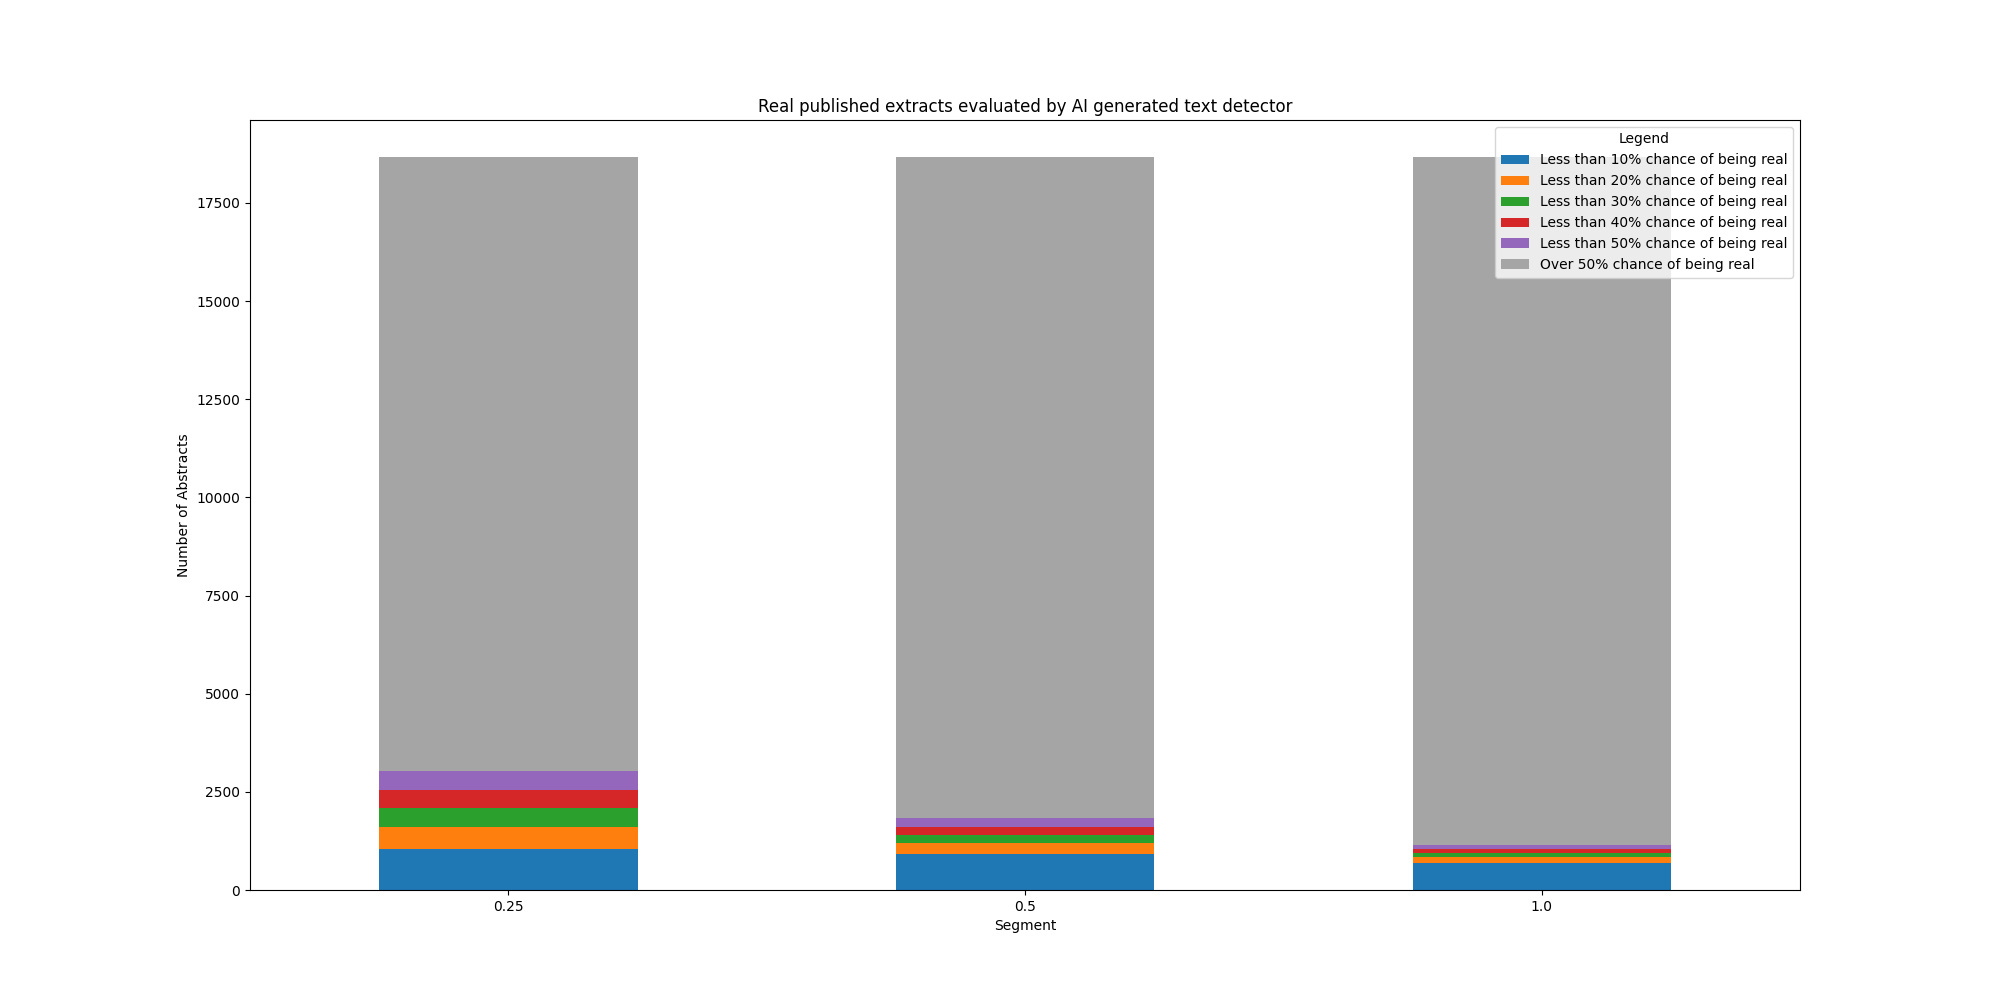
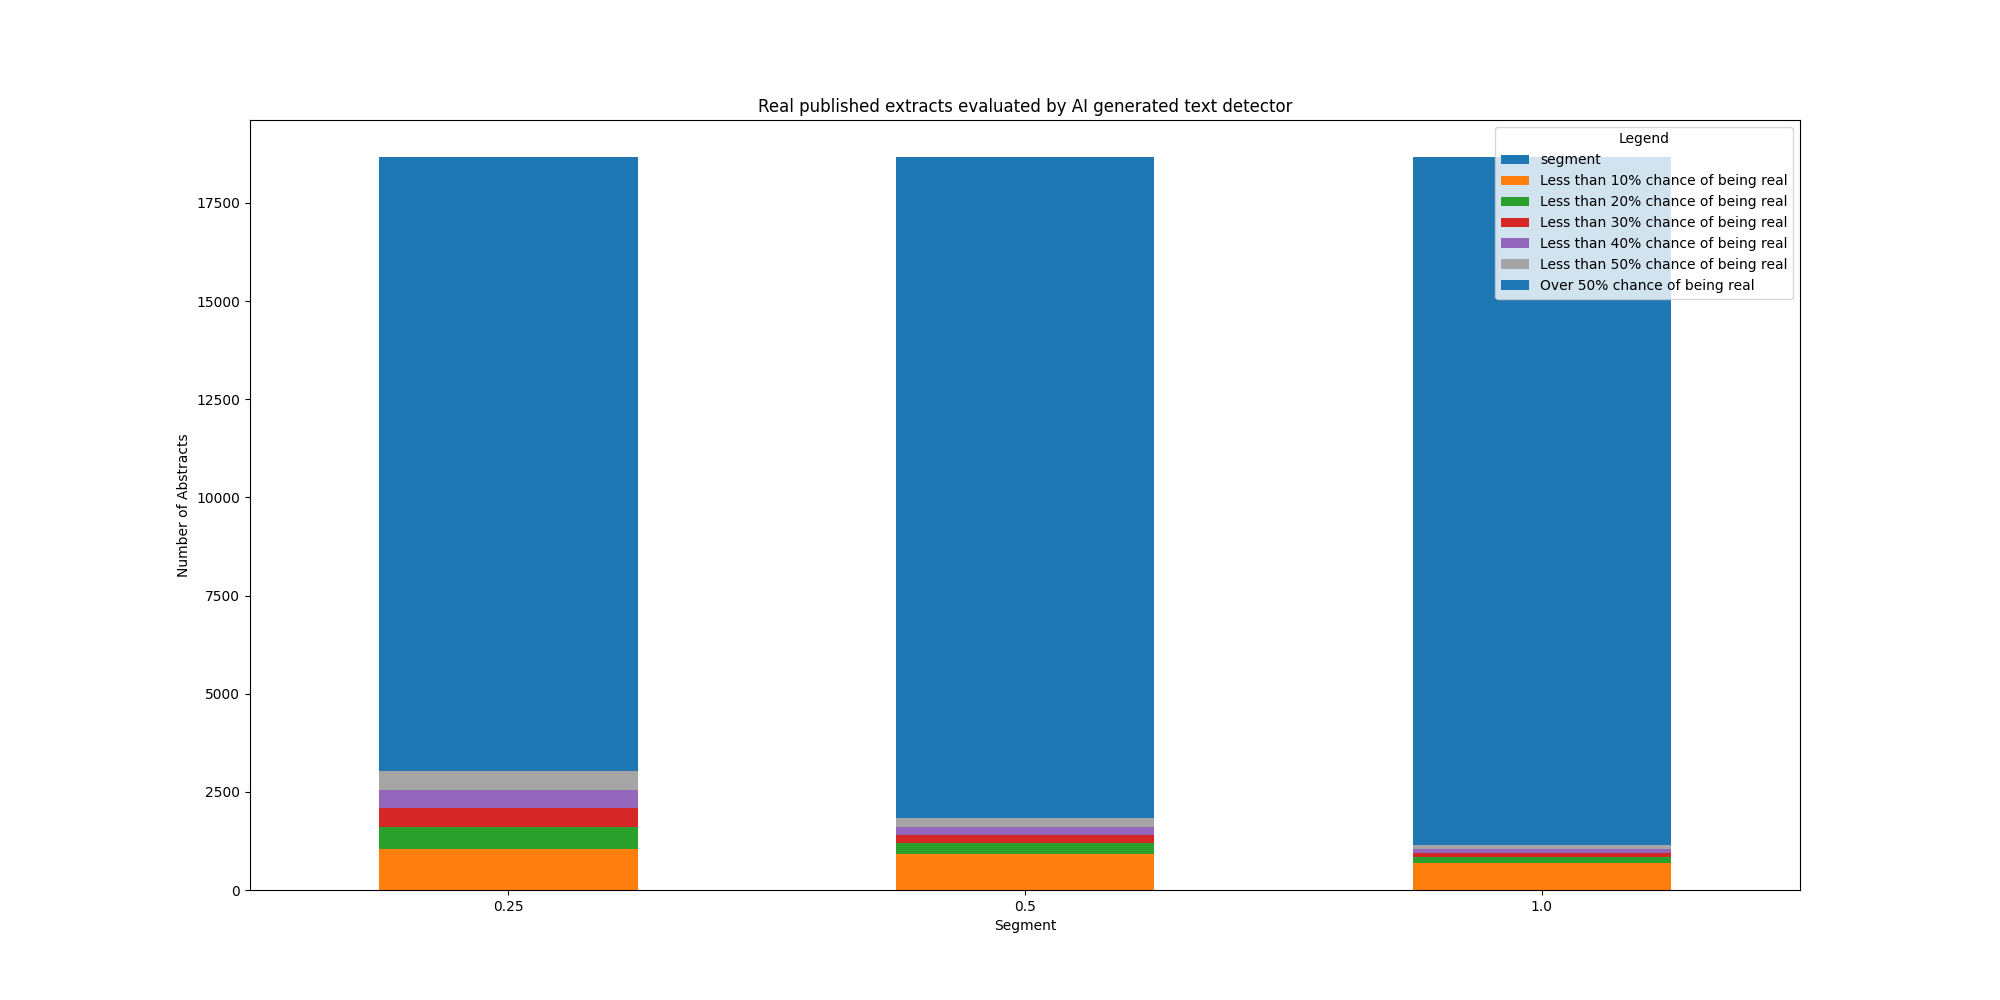
adding 3d to viz adding totals to statistics

Changed region(s): [[0.682, 0.155, 0.899, 0.899], [0.434, 0.155, 0.589, 0.899], [0.186, 0.155, 0.341, 0.899]]

diff --git a/Code/pubmed-gpt-viz.py b/Code/pubmed-gpt-viz.py
@@ -1,63 +1,131 @@
 import matplotlib.pyplot as plt
 from pandas import read_csv
 from os import getcwd
-from mpl_toolkits.mplot3d import Axes3D
+from numpy import zeros
 
 dir = getcwd()
 data_dir = dir.replace("Code", "Data\\")
 viz_dir = dir.replace("Code", "Graphs\\")
-colors = ['#1f77b4', '#ff7f0e', '#2ca02c', '#d62728', '#9467bd', '#a5a5a5']
+
+colors = [
+    "#1f77b4", # blue
+    "#ff7f0e", # orange
+    "#2ca02c", # green
+    "#d62728", # red
+    "#9467bd", # purple
+    "#a5a5a5" # grey
+]
 
 # by year
 yr_df_sample = read_csv(data_dir + "year-sample.csv")
-yr_df_sample.groupby(["year_range", "Legend"]).size().unstack().plot(
-    kind="bar", stacked=True, color=colors, figsize=(20, 10)
-)
+yr_grouped = (
+    yr_df_sample.groupby(["year_range", "Legend"]).size().unstack()
+).reset_index()
+tick_labels = yr_grouped["year_range"].astype(str)
+yr_grouped.plot(kind="bar", stacked=True, color=colors, figsize=(20, 10))
 
 plt.xlabel("Year Range")
-plt.xticks(rotation=0)
+plt.xticks(range(len(tick_labels)), tick_labels, rotation=0)
 plt.ylabel("Number of Abstracts")
 plt.title("Real published extracts evaluated by AI generated text detector")
 plt.savefig(viz_dir + "Years.png")
 
 # by year, 3d
-yr_df_sample = read_csv(data_dir + "year-sample.csv")
-groups = yr_df_sample.groupby(["year_range", "Legend"]).size().unstack()
-
-fig, ax = plt.subplots(figsize=(15, 10))
-
-bottom = None
-for i, col in enumerate(groups.columns):
-    ax.bar(groups.index, groups[col], bottom=bottom, color=colors[i], width=0.5, zorder=3-i)
-    bottom = groups[col] if bottom is None else bottom + groups[col]
+fig = plt.figure()
+ax = fig.add_subplot(111, projection="3d")
 
 ax.set_xlabel("Year Range")
-ax.set_xticks(groups.index)
-ax.set_ylabel("Number of Abstracts")
-ax.set_title("Real published extracts evaluated by AI generated text detector")
+ax.set_xticklabels(yr_grouped["year_range"])
+ax.set_zlabel("Abstracts")
+ax.set_ylim3d(0,10)
 
-plt.savefig(viz_dir + "3D_Stacked_Bar.png")
+dz = zeros(yr_grouped.shape[0])
+for i in range(yr_grouped.shape[1]-1):
+    ax.bar3d(
+        yr_grouped.index, # starting point for x
+        1, # starting point for y
+        dz, # starting point for z
+        0.5, # width of bar
+        0.5, # depth of bar
+        yr_grouped.iloc[:, i+1], # height of bar
+        color=colors[i]
+    )
+    dz += yr_grouped.iloc[:, i+1]
+
+plt.savefig(viz_dir + "Years-3D.png")
 
 # by journal
 jr_df_sample = read_csv(data_dir + "journal-sample.csv")
-jr_df_sample.groupby(["journal", "Legend"]).size().unstack().plot(
-    kind="bar", stacked=True, color=colors, figsize=(20, 10) 
-)
+jr_grouped = (
+    jr_df_sample.groupby(["journal", "Legend"]).size().unstack()
+).reset_index()
+tick_labels = jr_grouped["journal"].astype(str)
+jr_grouped.plot(kind="bar", stacked=True, color=colors, figsize=(20, 10))
 
 plt.xlabel("Journal")
-plt.xticks(rotation=0)
+plt.xticks(range(len(tick_labels)), tick_labels, rotation=0)
 plt.ylabel("Number of Abstracts")
 plt.title("Real published extracts evaluated by AI generated text detector")
 plt.savefig(viz_dir + "Journals.png")
 
-# by segment 
+# by journal, 3d
+fig = plt.figure()
+ax = fig.add_subplot(111, projection="3d")
+
+ax.set_xlabel("Journal")
+ax.set_xticklabels(jr_grouped["journal"])
+ax.set_zlabel("Abstracts")
+ax.set_ylim3d(0,10)
+
+dz = zeros(jr_grouped.shape[0])
+for i in range(jr_grouped.shape[1]-1):
+    ax.bar3d(
+        jr_grouped.index, # starting point for x
+        1, # starting point for y
+        dz, # starting point for z
+        0.5, # width of bar
+        0.5, # depth of bar
+        jr_grouped.iloc[:, i+1], # height of bar
+        color=colors[i]
+    )
+    dz += jr_grouped.iloc[:, i+1]
+
+plt.savefig(viz_dir + "Journals-3D.png")
+
+# by segment
 abs_df = read_csv(data_dir + "abstracts.csv")
-abs_df.groupby(["segment", "Legend"]).size().unstack().plot(
-    kind="bar", stacked=True, color=colors, figsize=(20, 10)
-)
+abs_grouped = (
+    abs_df.groupby(["segment", "Legend"]).size().unstack()
+).reset_index()
+tick_labels = abs_grouped["segment"].astype(str)
+abs_grouped.plot(kind="bar", stacked=True, color=colors, figsize=(20, 10))
 
 plt.xlabel("Segment")
-plt.xticks(rotation=0)
+plt.xticks(range(len(tick_labels)), tick_labels, rotation=0)
 plt.ylabel("Number of Abstracts")
 plt.title("Real published extracts evaluated by AI generated text detector")
 plt.savefig(viz_dir + "Segments.png")
+
+# by segment, 3d
+fig = plt.figure()
+ax = fig.add_subplot(111, projection="3d")
+
+ax.set_xlabel("Segment")
+ax.set_xticklabels(abs_grouped["segment"])
+ax.set_zlabel("Abstracts")
+ax.set_ylim3d(0,10)
+
+dz = zeros(abs_grouped.shape[0])
+for i in range(abs_grouped.shape[1]-1):
+    ax.bar3d(
+        abs_grouped.index, # starting point for x
+        1, # starting point for y
+        dz, # starting point for z
+        0.5, # width of bar
+        0.5, # depth of bar
+        abs_grouped.iloc[:, i+1], # height of bar
+        color=colors[i]
+    )
+    dz += abs_grouped.iloc[:, i+1]
+
+plt.savefig(viz_dir + "Segments-3D.png")

diff --git a/Code/pubmed-gpt-pivots.py b/Code/pubmed-gpt-pivots.py
@@ -41,12 +41,14 @@ for jr in abs_df["journal"].unique():
         )
         bt_df = concat([bt_df, x_df], ignore_index=True)
 
-bt_df = bt_df.round(4)
 bt_pivot = bt_df.pivot_table(
     index="year_range",
     columns="journal",
-    values=["word_count","t_statistic","p_value"]
+    values=["word_count","t_statistic","p_value"],
+    margins=True,
+    margins_name="Total"
 )
+bt_pivot = bt_pivot.round(4)
 bt_pivot.columns = [f"{k} {j}" for j, k in bt_pivot.columns]
 bt_pivot = bt_pivot.reindex(sorted(bt_pivot.columns), axis=1)
 bt_pivot.to_csv(tbl_dir + "statistics-pivot.csv")
